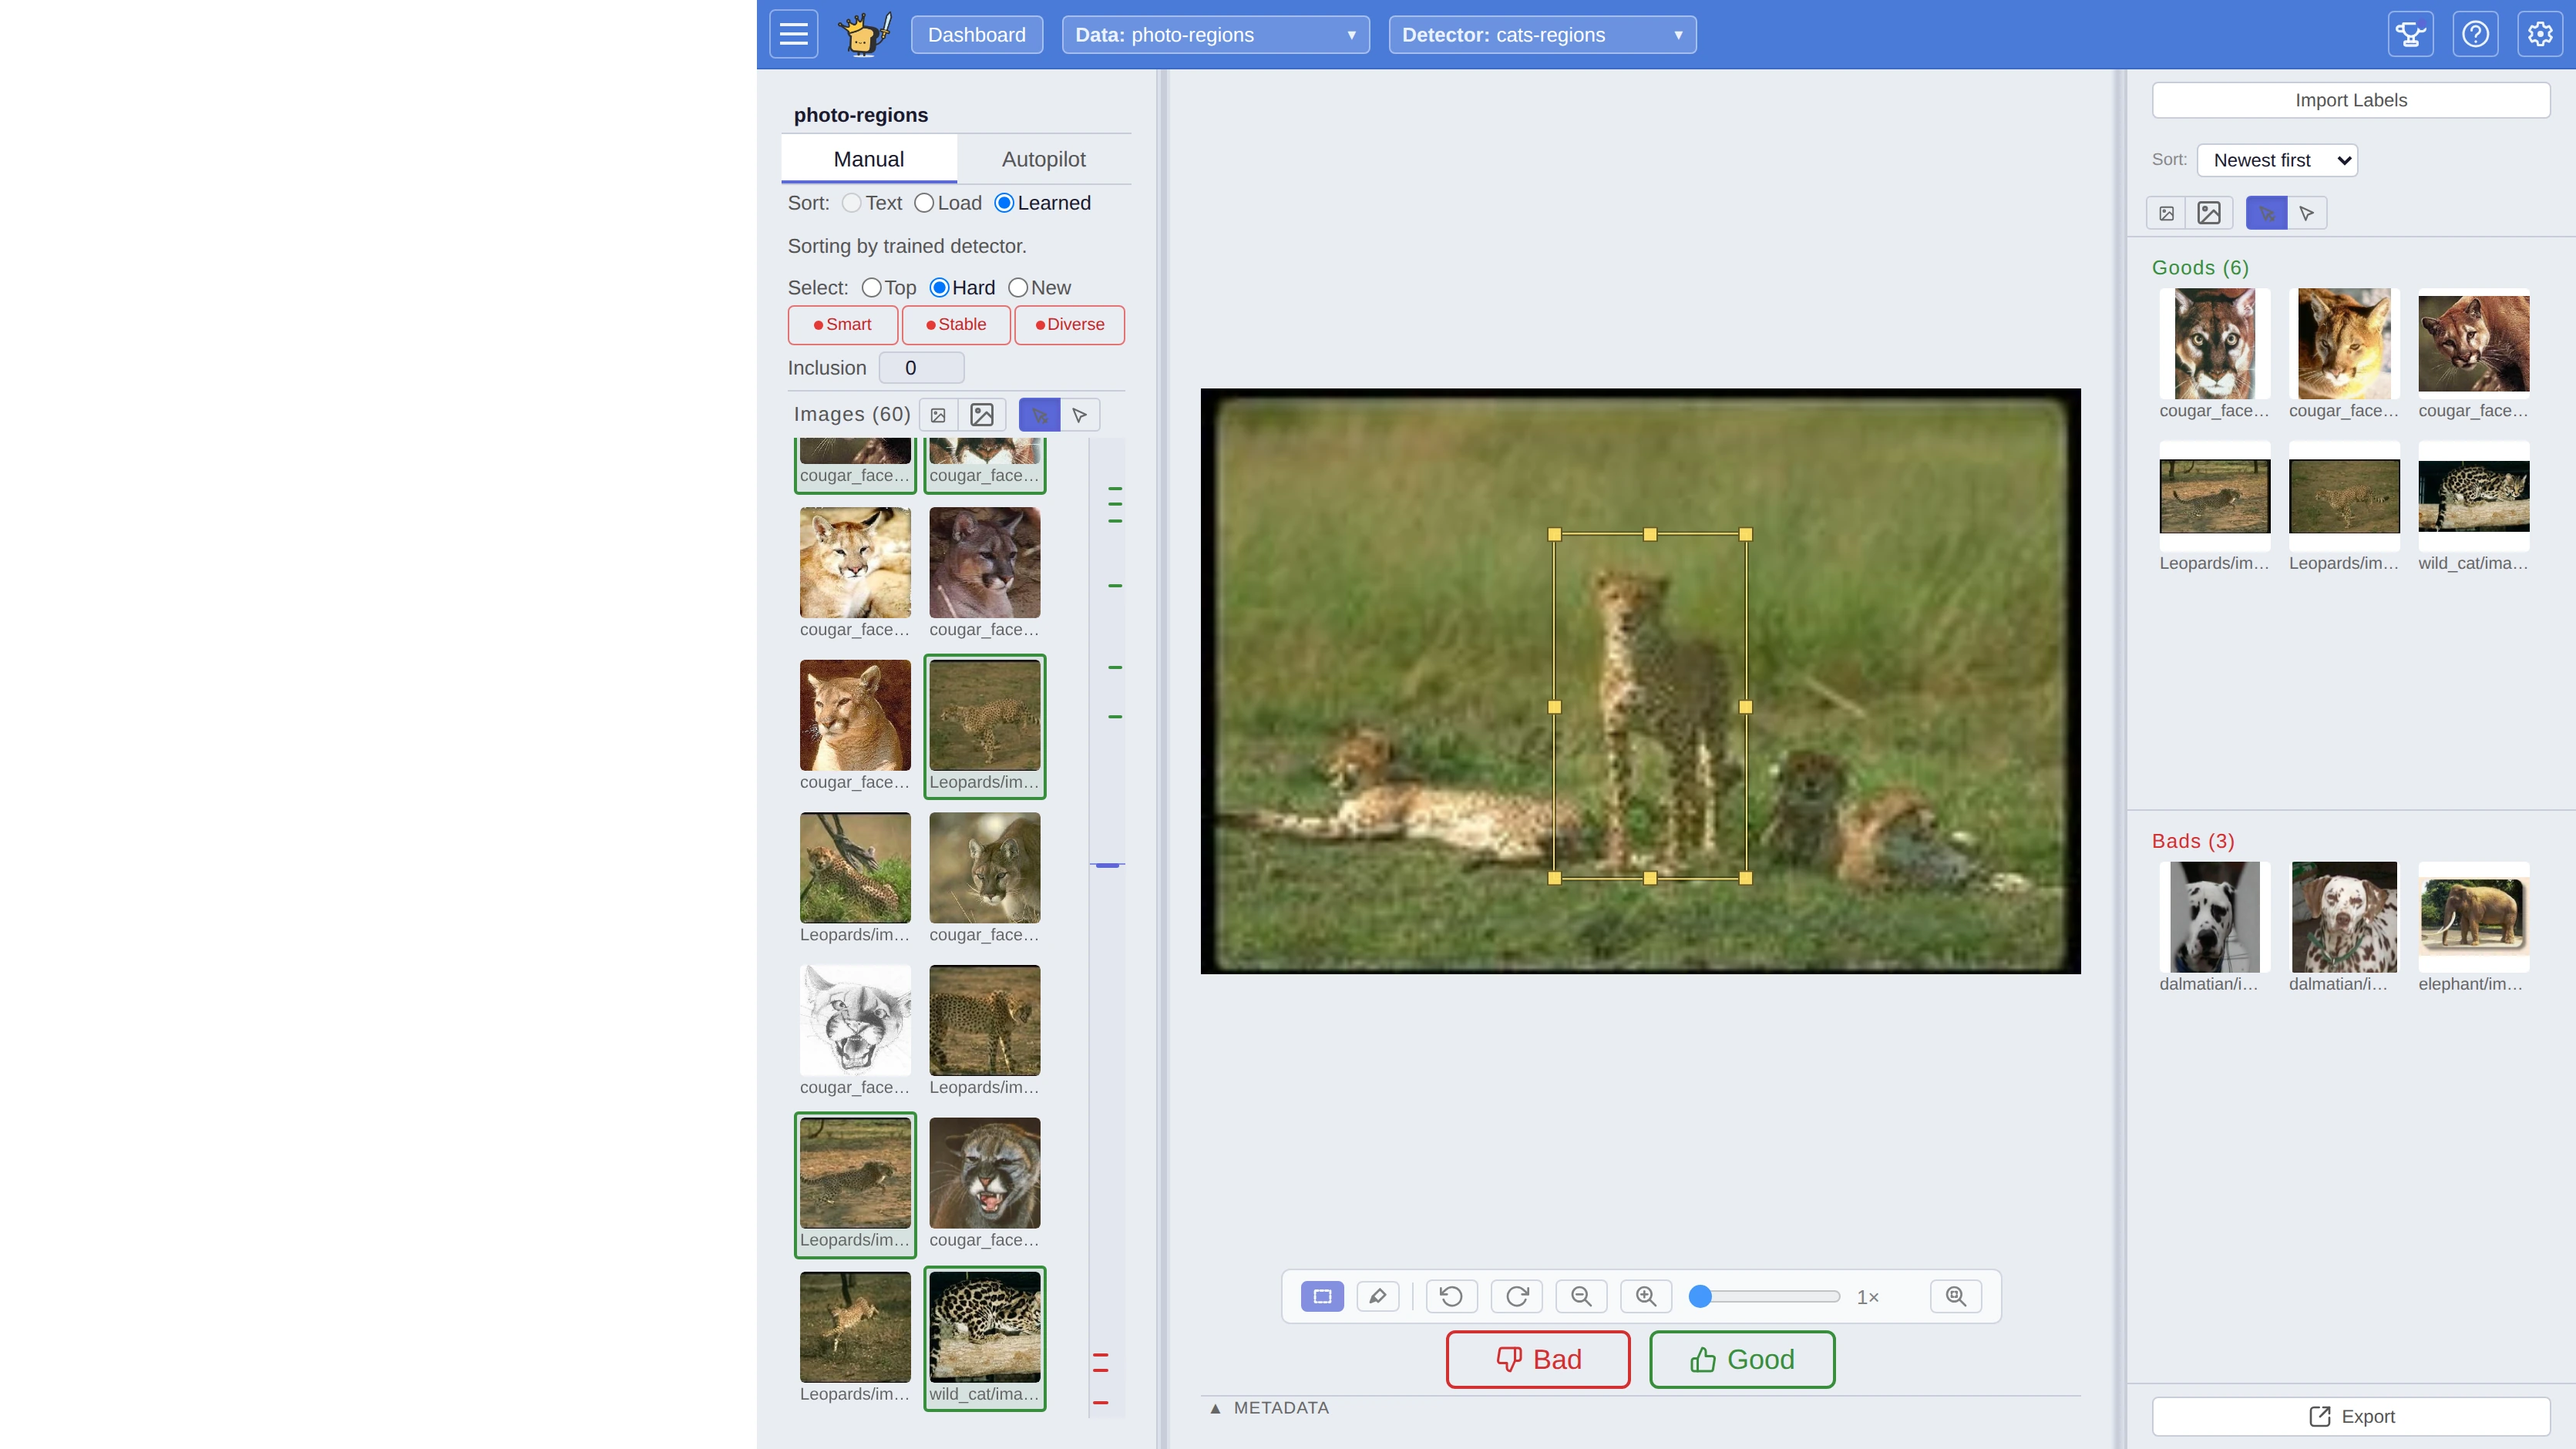
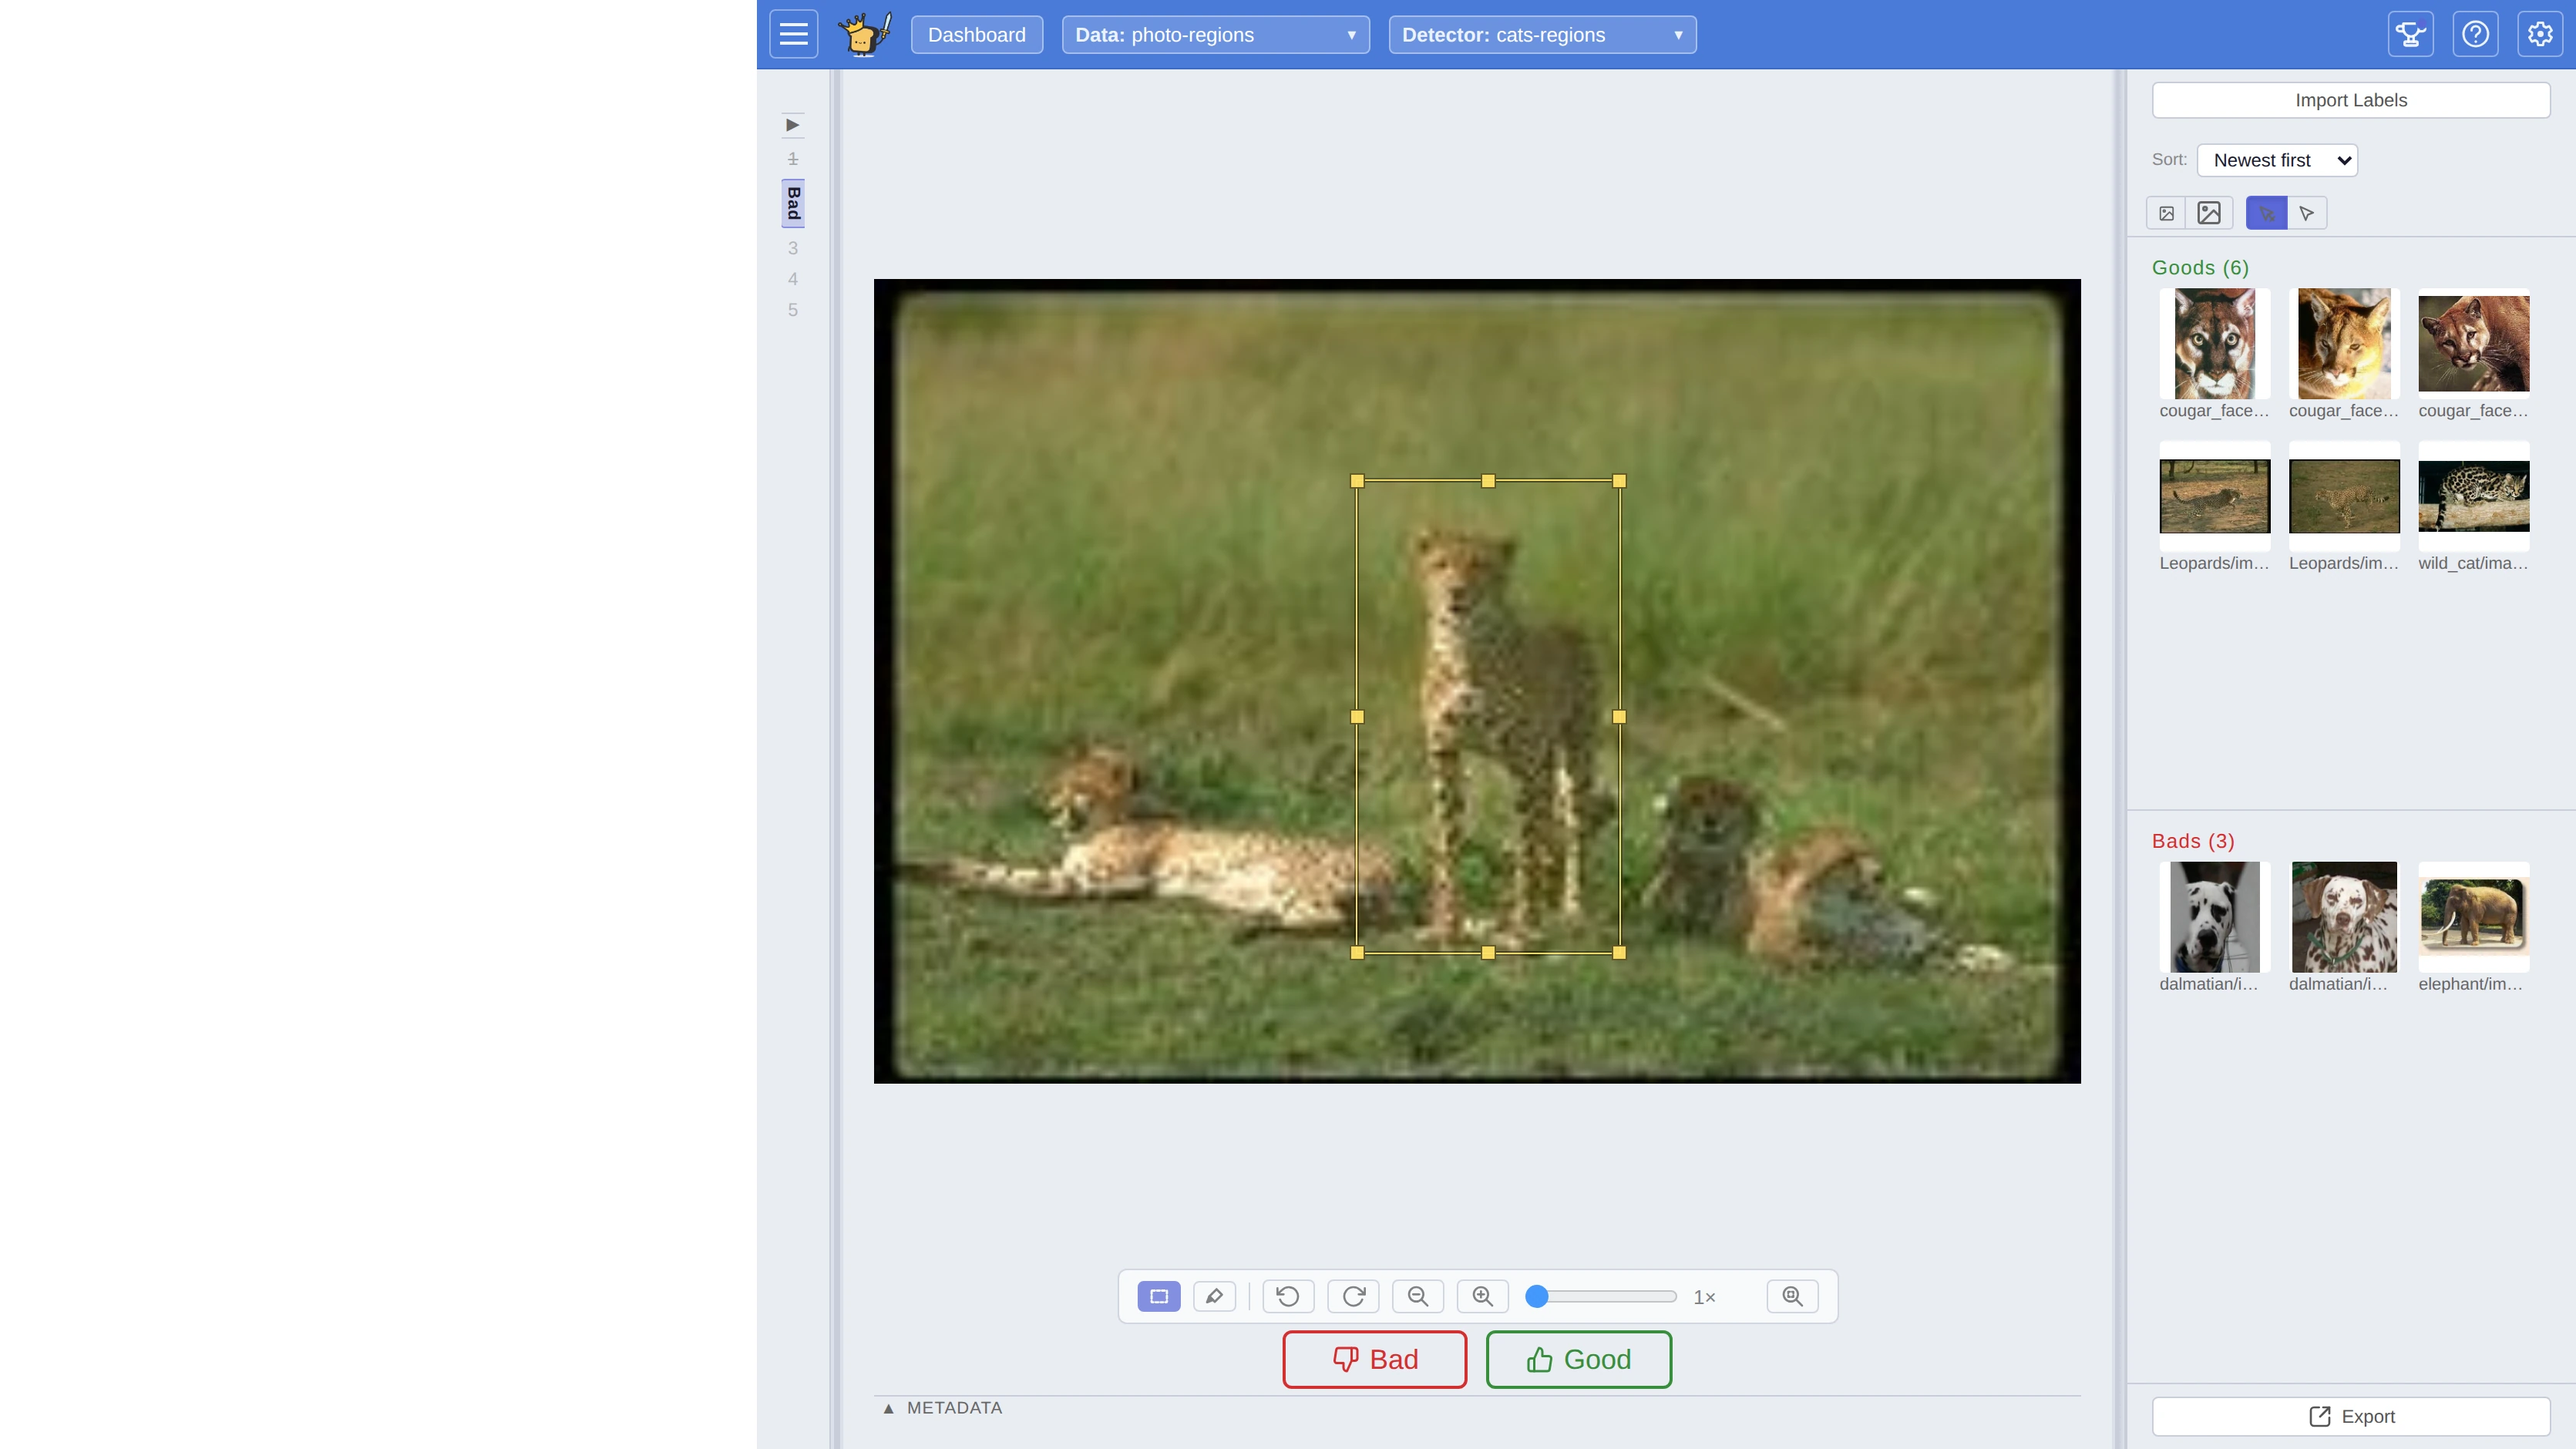
slides: shoot both UI figures under collapsed autopilot (#3246)

diff --git a/slides/fragments/ui-tour.md b/slides/fragments/ui-tour.md
@@ -4,22 +4,27 @@
 
 ## Judging by Appearances
 
-<!-- The audience's first sight of the tool. Say what is on the screen, because
-     it is a real session: a few hundred photographs, someone about ten votes
-     into looking for the cats in them, nothing labelled when they started. -->
+<!-- The audience's first sight of the tool, and it is a real session: a few
+     hundred photographs, someone about ten votes into looking for the cats in
+     them, nothing labelled when they started. -->
 
-<!-- Walk the three panels left to right, slowly. Left: the corpus, ordered by
-     how well it currently matches — nothing here is labelled, it is just
-     everything the user has. Middle: one item, large, with two buttons under
-     it. That is the entire interaction the user performs. Right: the votes cast
-     so far, kept as two piles. -->
+<!-- Two things on the screen, and that is the whole interaction. In the middle,
+     one item, large, with two buttons under it — Good or Bad. On the right,
+     the votes cast so far, kept as two piles. Nothing else is being asked of
+     the user. -->
+
+<!-- The user is not scrolling a result list choosing what to judge. **The system
+     is choosing what to put in front of them** — that is the sliver on the far
+     left, autopilot working through its phases, and it is where the next slide
+     goes. -->
 
 <!-- The loop starts from a seed, because a model with no votes has nothing to
      rank by: type a phrase, or point at one example item. From then on it is
      vote, retrain, re-rank. A retrain is a fraction of a second, because the
-     thing being trained is a small linear head on frozen embeddings — the heavy
-     model never moves. -->
+     thing being trained is a small linear head on frozen embeddings — the
+     heavy model never moves. -->
 
-<!-- One thing worth pointing at, because it is where the next slide goes: the
-     user is not scrolling a result list choosing what to judge. The system is
-     choosing what to put in front of them. -->
+<!-- If someone asks where the rest of the corpus is: there is a manual mode with
+     the whole pile in a grid, sort controls and a threshold slider. It is not
+     on this slide because none of it is the point, and the slider is a
+     character in the second half of the talk. -->
